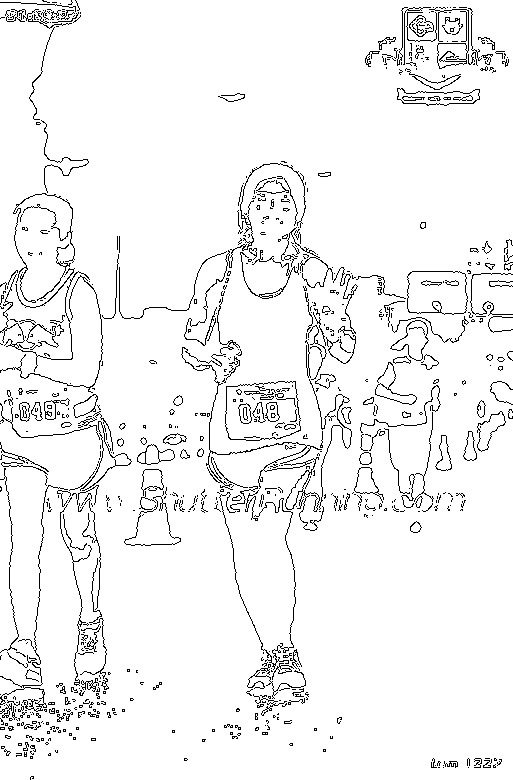
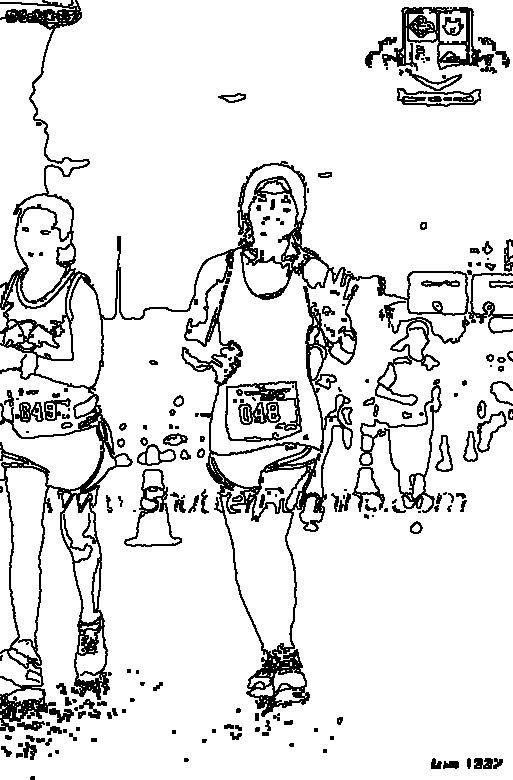
multiply 2 method

diff --git a/multiply.py b/multiply.py
@@ -7,8 +7,27 @@ from skimage import morphology
 import matplotlib.image as mpimg
 from matplotlib.image import imsave
 edge = cv2.imread('E:/git/testnc/outedge.jpg')
-print edge
-gray = cv2.cvtColor(edge,cv2.COLOR_BGR2GRAY)
-print gray
-cv2.imshow("edge",gray)
+edgegray = cv2.cvtColor(edge,cv2.COLOR_BGR2GRAY)
+copedge = edgegray
+copedge[copedge<127]=0
+copedge[copedge>=127]=255
+cv2.imshow("edge",edgegray)
+kmean = cv2.imread('E:/git/testnc/outkmean.jpg')
+kmeangray = cv2.cvtColor(kmean,cv2.COLOR_BGR2GRAY)
+copkmean = kmeangray
+cv2.imshow("kmean",kmeangray)
+copkmean[copkmean<127]=0
+copkmean[copkmean>=127]=1
+dot = copkmean*copedge
+cv2.imshow("dot",dot)
+#fill hole of sign
+fill_img = ndi.binary_fill_holes(dot)
+fig, ax = plt.subplots(figsize=(4, 3))
+ax.imshow(fill_img, cmap=plt.cm.gray, interpolation='nearest')
+ax.axis('off')
+ax.set_title('Filling the holes')
+imguint = np.uint8(fill_img)
+imguint[imguint==1] = 255
+cv2.imwrite("outdot.jpg", imguint)
+plt.show()
 cv2.waitKey(0)

diff --git a/kmean.py b/kmean.py
@@ -80,8 +80,12 @@ cv2.imshow("gray",imgedge)
 edges = cv2.Canny(imgedge,150,250);
 height, width = imgedge.shape[:2]
 crop_img = edges[10:height-10, 10:width-10];
-cv2.imshow("origin",crop_img)
-invert = 255-crop_img
+kernel = np.ones((1,2),np.uint8);
+dilation = cv2.dilate(crop_img,kernel,iterations = 1)
+kernel1 = np.ones((2,1),np.uint8);
+dilation1 = cv2.dilate(dilation,kernel1,iterations = 1)
+cv2.imshow("origin",dilation1)
+invert = 255-dilation1
 cv2.imwrite("outkmean.jpg",invert);
 #mpimg.imsave("outkmean.jpg", invert)
 #cv2.imshow("invert",invert)
